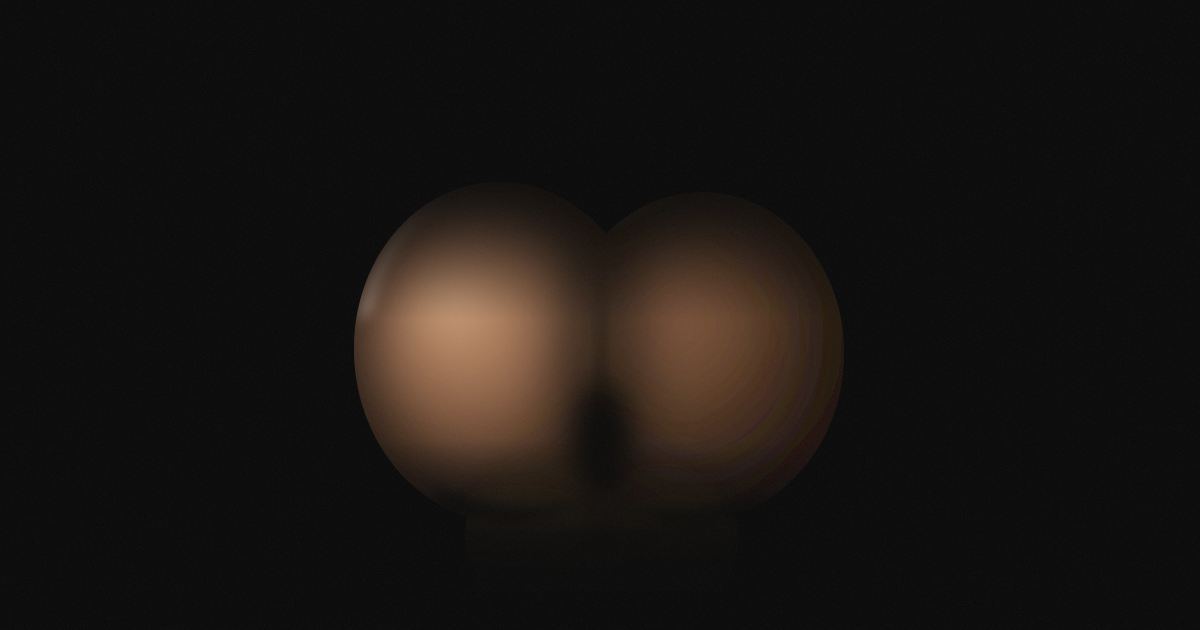
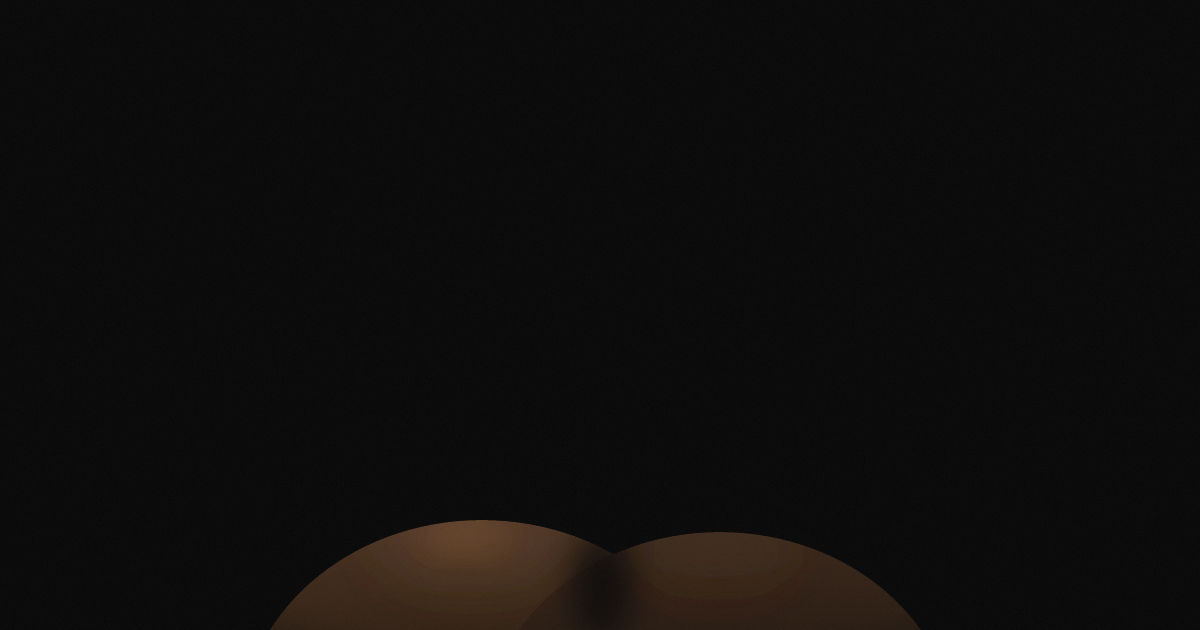
fix(seo): subtler og — crowns cresting the frame, Gluteus maximus copy

Changed region(s): [[0.2775, 0.3317, 0.7092, 0.7841], [0.2158, 0.8143, 0.4933, 1.0], [0.5242, 0.8444, 0.7708, 1.0]]

diff --git a/index.html b/index.html
@@ -7,20 +7,20 @@
     <meta name="viewport" content="width=device-width, initial-scale=1.0, viewport-fit=cover" />
     <meta name="theme-color" content="#000000" />
     <title>ass</title>
-    <meta name="description" content="An ass." />
+    <meta name="description" content="Gluteus maximus." />
     <link rel="canonical" href="https://ass.jass.gg/" />
     <meta property="og:type" content="website" />
     <meta property="og:url" content="https://ass.jass.gg/" />
     <meta property="og:site_name" content="ass" />
     <meta property="og:title" content="ass" />
-    <meta property="og:description" content="An ass." />
+    <meta property="og:description" content="Gluteus maximus." />
     <meta property="og:image" content="https://ass.jass.gg/og.png" />
     <meta property="og:image:width" content="1200" />
     <meta property="og:image:height" content="630" />
     <meta property="og:image:alt" content="ass" />
     <meta name="twitter:card" content="summary_large_image" />
     <meta name="twitter:title" content="ass" />
-    <meta name="twitter:description" content="An ass." />
+    <meta name="twitter:description" content="Gluteus maximus." />
     <meta name="twitter:image" content="https://ass.jass.gg/og.png" />
     <script type="application/ld+json">
       {
@@ -32,7 +32,7 @@
         "artform": "Sculpture",
         "artMedium": "Simulated flesh",
         "artworkSurface": "Void",
-        "abstract": "An ass."
+        "abstract": "Gluteus maximus."
       }
     </script>
     <style>
